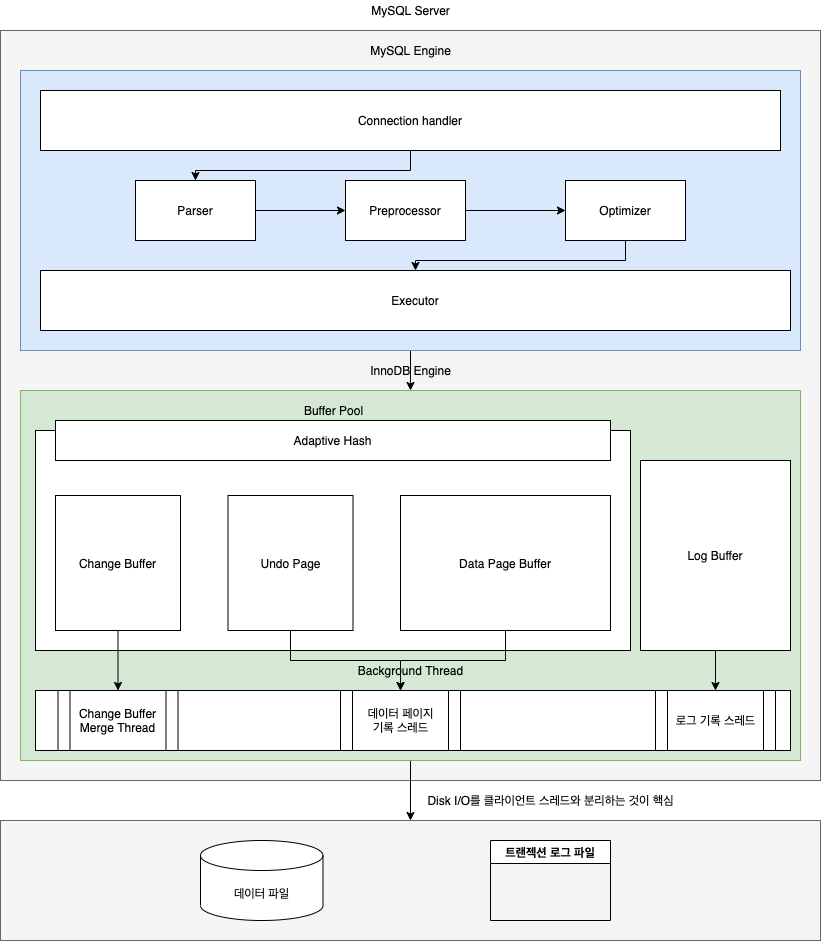
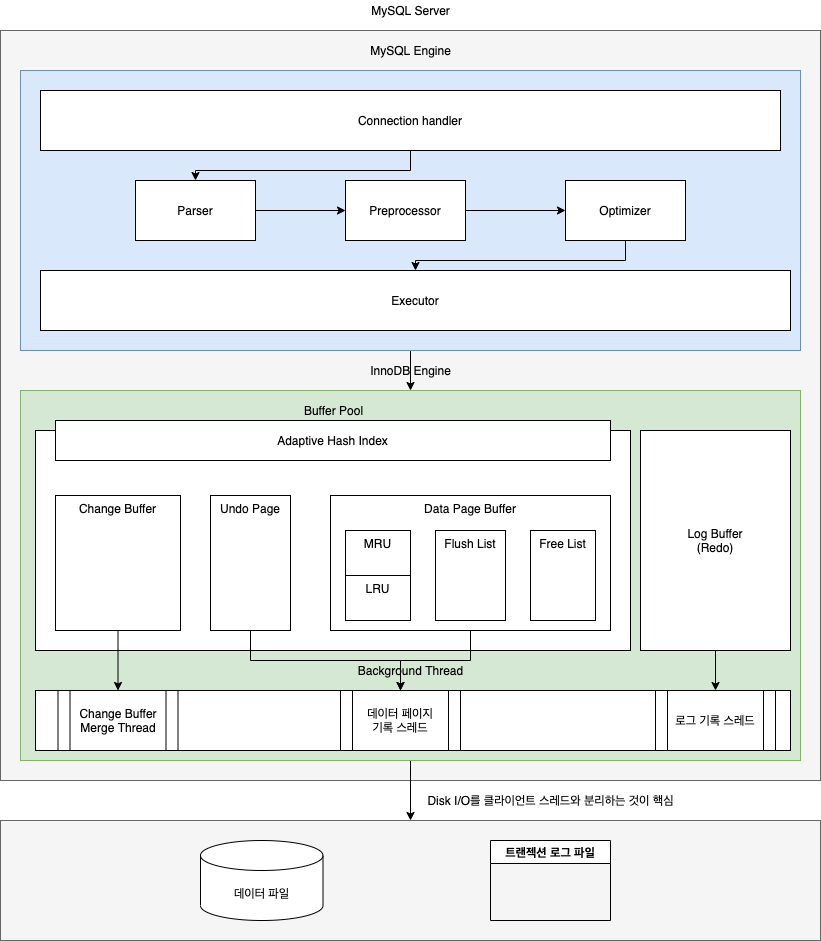
db: add query for example and update mysql architecture diagram

diff --git a/Database/MySQL/execution_plan.md b/Database/MySQL/execution_plan.md
@@ -23,6 +23,18 @@
 
 실행 계획 쿼리 결과의 예시
 
+```SQL
+SELECT site_options.domain, sites_users.user, site_taxes.monthly_statement_fee, site.name, AVG(price) AS average_product_price
+  FROM sites_orders_products, site_taxes, site, sites_users, site_options
+    WHERE site_options.site_id = site.id
+      AND sites_users.id = site.user_id
+      AND site_taxes.site_id = site.id
+      AND sites_orders_products.site_id = site.id
+    GROUP BY site.id
+    ORDER BY site.date_modified desc
+    LIMIT 5;
+```
+
 ```
 +------+-------------+---------------------------------+--------+-----------------+---------------+---------+---------------------------------+------+-----------+
 | id   | select_type | table                           | type   | possible_keys   | key           | key_len | ref                             | rows | Extra     |
